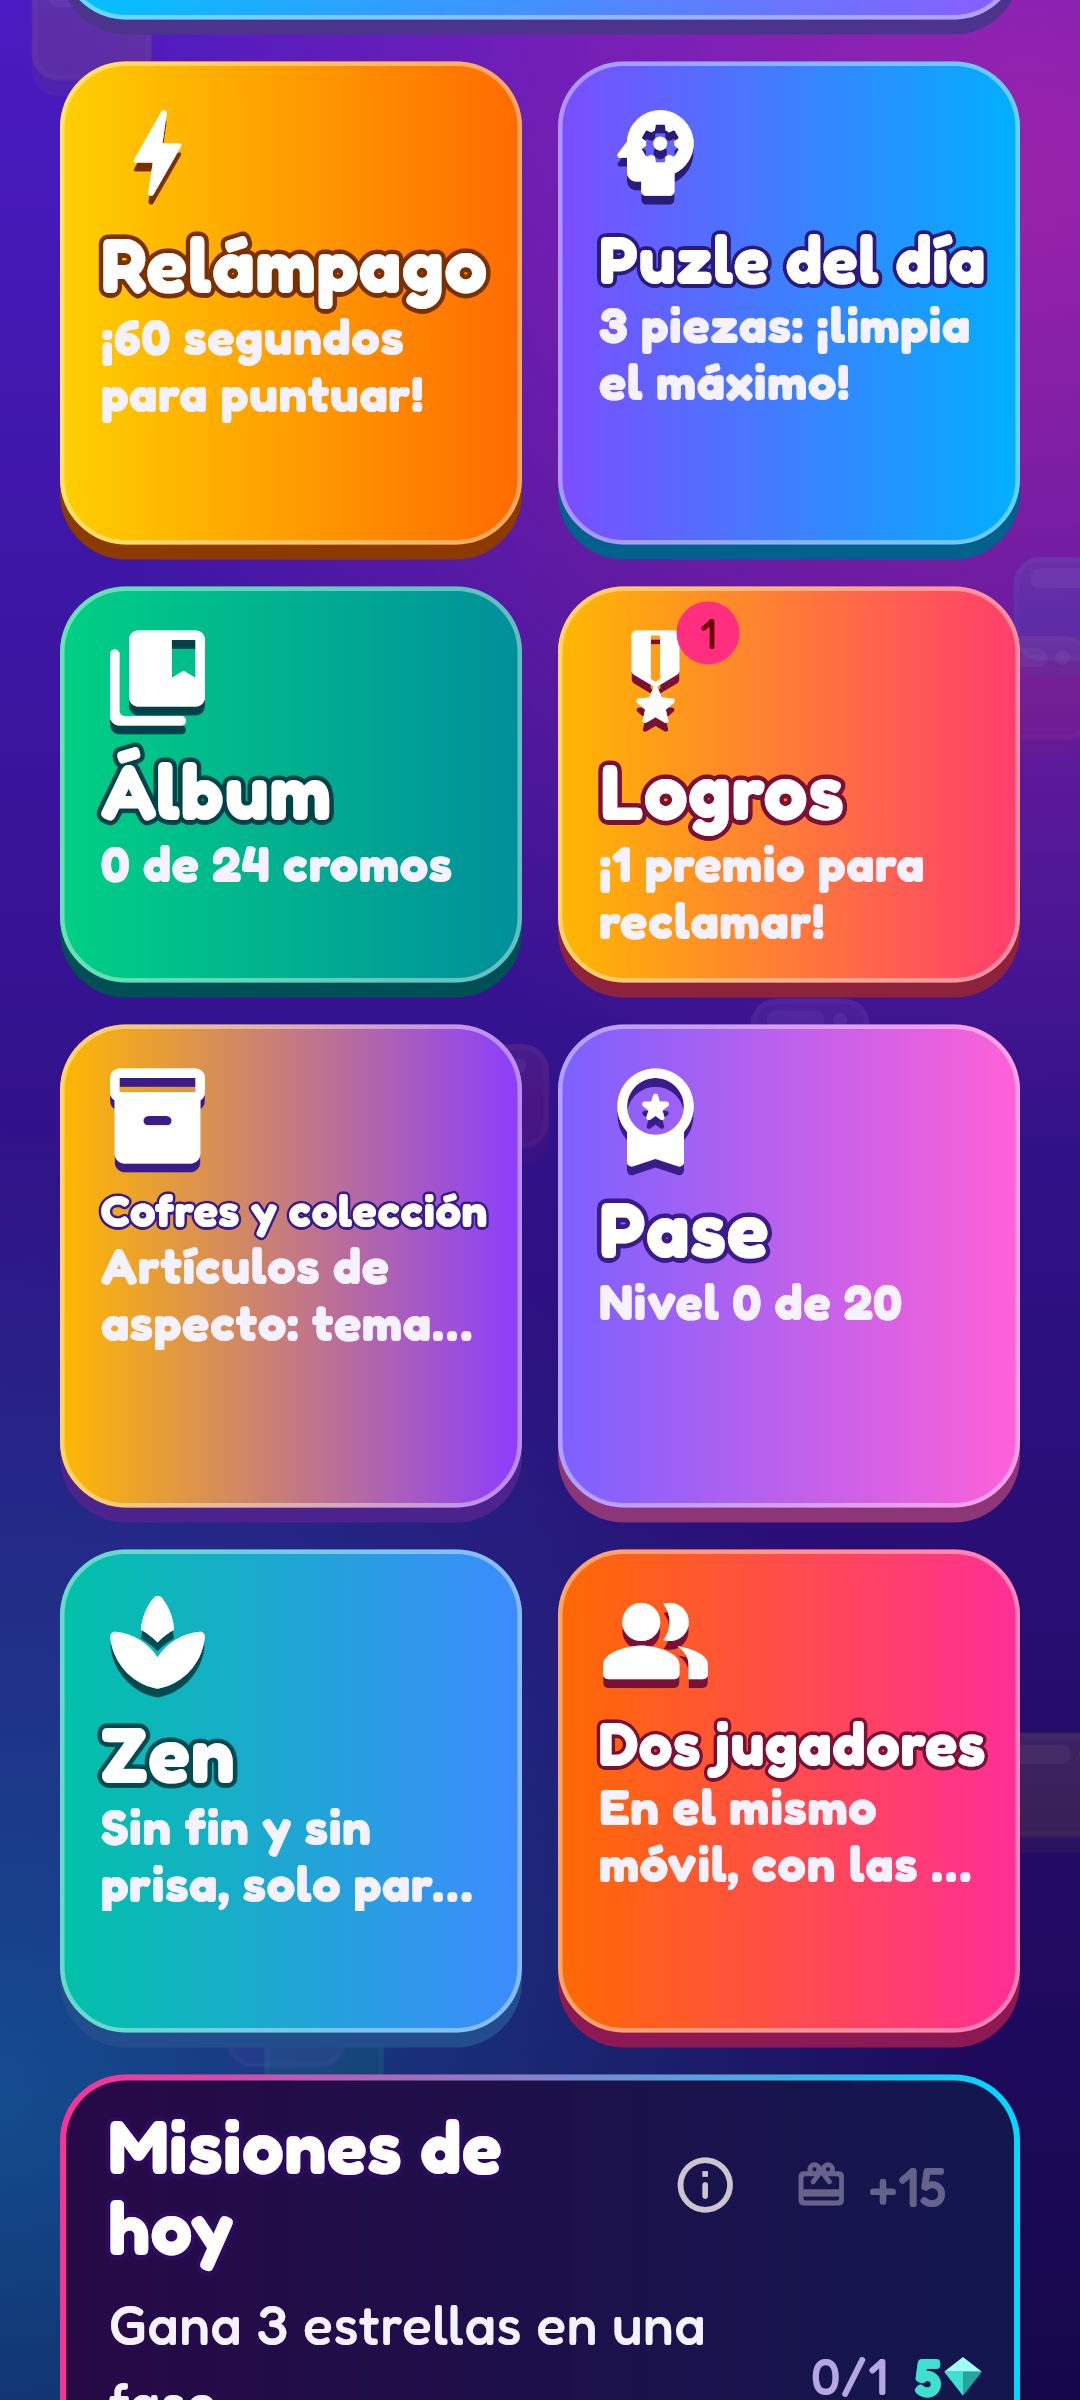
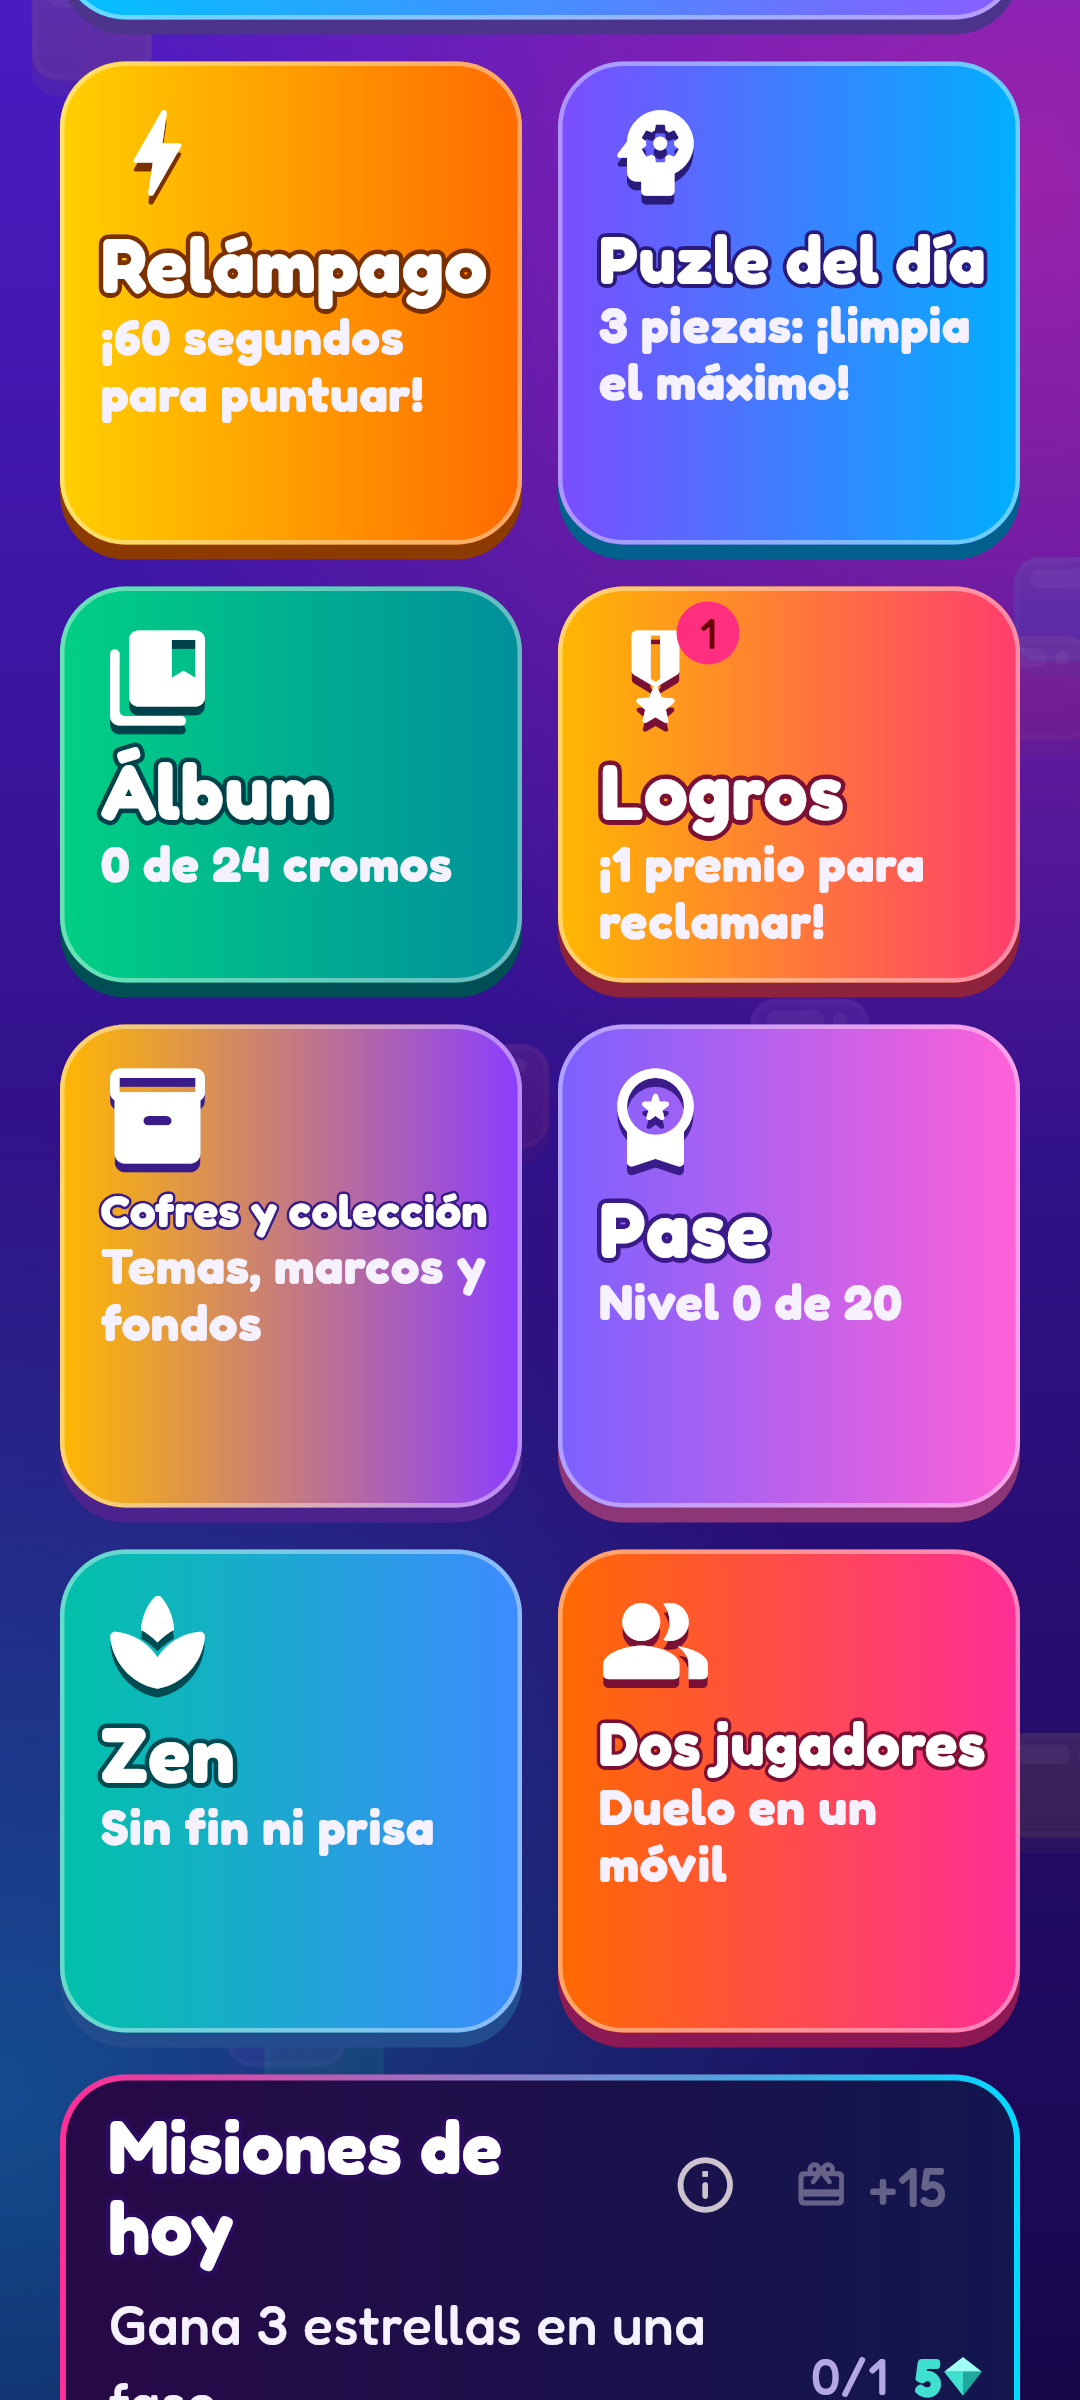
Prints da issue 25: Play Games na tela Salvar progresso, tela inicial, destaque en/es (v23)
- Capturas 60 a 63 (conectado, conectar, tela pequena com fonte 1,3x e tela inicial inteira)
- Capturas da tela inicial e do aviso de salvar geradas com o branch feat/esconder-salvar-progresso (sem o botão Salvar progresso)
- Imagem de destaque 1024x500 em inglês e espanhol
- Subtítulos dos tiles Zen, Dois jogadores e Baús encurtados (estavam cortados)

Claude-Session: https://claude.ai/code/session_0113qfSKSdakLn1Fz3YtvNms

Changed region(s): [[0.0917, 0.5, 0.4583, 0.5625], [0.0917, 0.75, 0.3972, 0.8125], [0.55, 0.75, 0.8556, 0.7812]]

diff --git a/app/lib/idioma_textos.dart b/app/lib/idioma_textos.dart
@@ -5,6 +5,9 @@ abstract final class Textos {
 }
 
 const _en = <String, String>{
+  'Sem fim, sem pressa': 'Endless and calm',
+  'Duelo no mesmo celular': 'Duel on one phone',
+  'Temas, molduras e fundos': 'Themes, frames and backgrounds',
   'Linhas limpas': 'Lines cleared',
   'JOGADOR {0}': 'PLAYER {0}',
   'pontos': 'points',
@@ -18,7 +21,6 @@ const _en = <String, String>{
   'Jogador 1: {0} · Jogador 2: {1}': 'Player 1: {0} · Player 2: {1}',
   'Revanche': 'Rematch',
   'Dois jogadores': 'Two players',
-  'No mesmo celular, com as mesmas peças': 'On the same phone, same pieces',
   'Um celular, dois jogadores: cada um joga uma partida, um depois do outro.':
       'One phone, two players: each plays one game, one after the other.',
   'As peças são as MESMAS para os dois, então ganha quem joga melhor.':
@@ -63,7 +65,6 @@ const _en = <String, String>{
   'Ouro e noite': 'Gold and night',
   'ZEN': 'ZEN',
   'Zen': 'Zen',
-  'Sem fim e sem pressa, só para relaxar': 'Endless and calm, just to relax',
   'Abrimos espaço!': 'Made some room!',
   'No Zen a partida não acaba': 'In Zen the game never ends',
   'Modo Zen': 'Zen mode',
@@ -124,7 +125,6 @@ const _en = <String, String>{
   'Garantia de raridade': 'Rarity guarantee',
   'Baú novo na coleção!': 'New chest in your collection!',
   '{0} baú{1} para abrir!': '{0} chest{1} to open!',
-  'Itens de aparência: temas, molduras e cores': 'Cosmetic items: themes, frames and colors',
   'Você ganhou um baú! Veja em Baús e coleção.': 'You got a chest! See it in Chests and collection.',
   'Você ganha baús jogando: Desafio do dia, níveis 5, 10, 15 e 20 do Passe, álbum completo e 14 e 30 dias de sequência.': 'You earn chests by playing: daily Challenge, Pass levels 5, 10, 15 and 20, a complete album, and 14 and 30-day streaks.',
   'Cada baú traz um item de APARÊNCIA: tema de blocos, moldura, cor do Quadrinho ou fundo do jogo. Nada muda a pontuação.': 'Each chest holds a COSMETIC item: a block theme, a board frame, a Quadrinho color or a game background. Nothing changes your score.',
@@ -763,6 +763,9 @@ const _en = <String, String>{
 };
 
 const _es = <String, String>{
+  'Sem fim, sem pressa': 'Sin fin ni prisa',
+  'Duelo no mesmo celular': 'Duelo en un móvil',
+  'Temas, molduras e fundos': 'Temas, marcos y fondos',
   'Linhas limpas': 'Líneas limpias',
   'JOGADOR {0}': 'JUGADOR {0}',
   'pontos': 'puntos',
@@ -776,7 +779,6 @@ const _es = <String, String>{
   'Jogador 1: {0} · Jogador 2: {1}': 'Jugador 1: {0} · Jugador 2: {1}',
   'Revanche': 'Revancha',
   'Dois jogadores': 'Dos jugadores',
-  'No mesmo celular, com as mesmas peças': 'En el mismo móvil, con las mismas piezas',
   'Um celular, dois jogadores: cada um joga uma partida, um depois do outro.':
       'Un móvil, dos jugadores: cada uno juega una partida, uno tras otro.',
   'As peças são as MESMAS para os dois, então ganha quem joga melhor.':
@@ -821,7 +823,6 @@ const _es = <String, String>{
   'Ouro e noite': 'Oro y noche',
   'ZEN': 'ZEN',
   'Zen': 'Zen',
-  'Sem fim e sem pressa, só para relaxar': 'Sin fin y sin prisa, solo para relajarte',
   'Abrimos espaço!': '¡Hicimos espacio!',
   'No Zen a partida não acaba': 'En Zen la partida nunca termina',
   'Modo Zen': 'Modo Zen',
@@ -882,7 +883,6 @@ const _es = <String, String>{
   'Garantia de raridade': 'Garantía de rareza',
   'Baú novo na coleção!': '¡Cofre nuevo en tu colección!',
   '{0} baú{1} para abrir!': '¡{0} cofre{1} para abrir!',
-  'Itens de aparência: temas, molduras e cores': 'Artículos de aspecto: temas, marcos y colores',
   'Você ganhou um baú! Veja em Baús e coleção.': '¡Ganaste un cofre! Míralo en Cofres y colección.',
   'Você ganha baús jogando: Desafio do dia, níveis 5, 10, 15 e 20 do Passe, álbum completo e 14 e 30 dias de sequência.': 'Ganas cofres jugando: Desafío del día, niveles 5, 10, 15 y 20 del Pase, álbum completo y rachas de 14 y 30 días.',
   'Cada baú traz um item de APARÊNCIA: tema de blocos, moldura, cor do Quadrinho ou fundo do jogo. Nada muda a pontuação.': 'Cada cofre trae un artículo de ASPECTO: tema de bloques, marco del tablero, color de Quadrinho o fondo del juego. Nada cambia la puntuación.',

diff --git a/app/test/play_games_tela_test.dart b/app/test/play_games_tela_test.dart
@@ -1,0 +1,94 @@
+import 'dart:typed_data';
+
+import 'package:encaixa/servicos/copia_automatica.dart';
+import 'package:encaixa/telas/inicio_tela.dart';
+import 'package:encaixa/telas/progresso_tela.dart';
+import 'package:flutter_test/flutter_test.dart';
+import 'package:material_ui/material_ui.dart';
+
+import 'suporte/capturas.dart';
+
+/// Play Games de mentira: [logado] é o nome da conta conectada (`null` = ainda sem conta).
+class _PlayGamesFalso implements CopiaAutomatica, ContaDoJogador {
+  _PlayGamesFalso({this.logado});
+
+  String? logado;
+  Uint8List? guardado;
+
+  @override
+  Future<ResultadoCopia> salvar(Uint8List bytes) async {
+    guardado = bytes;
+    return const ResultadoCopia(ok: true, nuvem: true);
+  }
+
+  @override
+  Future<Uint8List?> ler() async => guardado;
+
+  @override
+  Future<String?> nome() async => logado;
+
+  @override
+  Future<bool> conectar() async {
+    logado = 'Agster';
+    return true;
+  }
+}
+
+const _jogador = <String, Object>{'faseLiberada': 9, 'partidas': 12, 'recorde': 4200, 'gemas': 60};
+
+/// Capturas da tela Salvar progresso com e sem a conta do Play Games.
+/// Gere com: flutter test test/play_games_tela_test.dart --dart-define=CAPTURAS=true
+void main() {
+  setUpAll(carregarFontes);
+
+  Future<void> abrir(WidgetTester tester, {String? conta}) async {
+    final s = await servicosDeTeste(
+      valores: _jogador,
+      copia: _PlayGamesFalso(logado: conta),
+    );
+    await tester.pumpWidget(appDeTeste(s, tela: ProgressoTela(servicos: s)));
+    await tester.pump();
+    await tester.pump(const Duration(milliseconds: 200));
+  }
+
+  testWidgets('conectado: mostra a conta do Play Games', (tester) async {
+    telaDeCelular(tester);
+    await abrir(tester, conta: 'Agster');
+    expect(find.text('Conectado ao Play Games'), findsOneWidget);
+    expect(find.textContaining('Conta: Agster'), findsOneWidget);
+    await capturar(tester, '60-play-games-conectado');
+  });
+
+  testWidgets('sem conta: pede para conectar e o botão conecta', (tester) async {
+    telaDeCelular(tester);
+    await abrir(tester);
+    expect(find.text('Conecte ao Play Games'), findsOneWidget);
+    expect(find.text('CONECTAR AO PLAY GAMES'), findsWidgets);
+    await capturar(tester, '61-play-games-conectar');
+    await tester.tap(find.text('CONECTAR AO PLAY GAMES').first);
+    await tester.pump();
+    await tester.pump(const Duration(milliseconds: 200));
+    expect(find.text('Conectado ao Play Games'), findsOneWidget);
+  });
+
+  for (final (nome, conta) in [('conectado', 'Agster'), ('sem conta', null)]) {
+    testWidgets('tela pequena (320x600) com fonte 1,3x: nada estoura ($nome)', (tester) async {
+      telaDeCelular(tester, tamanho: const Size(320, 600), fonte: 1.3);
+      await abrir(tester, conta: conta);
+      expect(tester.takeException(), isNull);
+      await capturar(tester, '62-play-games-${conta == null ? 'conectar' : 'conectado'}-pequena');
+    });
+  }
+
+  testWidgets('fim da tela inicial (tela alta, para ver tudo até o fim)', (tester) async {
+    telaDeCelular(tester, tamanho: const Size(360, 1900));
+    final s = await servicosDeTeste(
+      valores: _jogador,
+      copia: _PlayGamesFalso(logado: 'Agster'),
+    );
+    await tester.pumpWidget(appDeTeste(s, tela: InicioTela(servicos: s)));
+    await tester.pumpAndSettle();
+    expect(tester.takeException(), isNull);
+    await capturar(tester, '63-inicio-fim');
+  });
+}

diff --git a/app/test/artes_test.dart b/app/test/artes_test.dart
@@ -11,7 +11,13 @@ import 'suporte/capturas.dart';
 void main() {
   setUpAll(carregarFontes);
 
-  Future<void> desenhar(WidgetTester tester, Size tamanho, Widget arte, String nome) async {
+  Future<void> desenhar(
+    WidgetTester tester,
+    Size tamanho,
+    Widget arte,
+    String nome, {
+    String pasta = '../docs/artes',
+  }) async {
     tester.view
       ..devicePixelRatio = 1
       ..physicalSize = tamanho;
@@ -23,7 +29,7 @@ void main() {
       ),
     );
     await tester.pump();
-    await capturar(tester, nome, pasta: '../docs/artes');
+    await capturar(tester, nome, pasta: pasta);
   }
 
   // Arte do mascote Quadrinho, desenhada em código: uma folha com todos os humores e um PNG de cada.
@@ -89,35 +95,43 @@ void main() {
     );
   });
 
-  testWidgets('imagem de destaque 1024x500', (tester) async {
-    await desenhar(
-      tester,
-      const Size(1024, 500),
-      const DecoratedBox(
-        decoration: BoxDecoration(gradient: Cores.fundo),
-        child: Stack(
-          children: [
-            Positioned.fill(child: CustomPaint(painter: _Pilha())),
-            Align(
-              alignment: Alignment(-0.75, 0),
-              child: Column(
-                mainAxisSize: MainAxisSize.min,
-                children: [
-                  Logo(tamanho: 96),
-                  SizedBox(height: 12),
-                  Text(
-                    'Encaixe. Limpe. Combine as cores.',
-                    style: TextStyle(fontSize: 30, color: Cores.texto, fontWeight: FontWeight.w500),
-                  ),
-                ],
+  // Imagem de destaque da loja, uma por idioma (o texto é o único que muda).
+  for (final (slogan, nome, pasta) in [
+    ('Encaixe. Limpe. Combine as cores.', 'destaque-1024x500', '../docs/artes'),
+    ('Fit. Clear. Match the colors.', 'destaque-en-1024x500', '../docs/play-store/en'),
+    ('Encaja. Limpia. Combina los colores.', 'destaque-es-1024x500', '../docs/play-store/es'),
+  ]) {
+    testWidgets('imagem de destaque 1024x500 ($nome)', (tester) async {
+      await desenhar(
+        tester,
+        const Size(1024, 500),
+        DecoratedBox(
+          decoration: const BoxDecoration(gradient: Cores.fundo),
+          child: Stack(
+            children: [
+              const Positioned.fill(child: CustomPaint(painter: _Pilha())),
+              Align(
+                alignment: const Alignment(-0.75, 0),
+                child: Column(
+                  mainAxisSize: MainAxisSize.min,
+                  children: [
+                    const Logo(tamanho: 96),
+                    const SizedBox(height: 12),
+                    Text(
+                      slogan,
+                      style: const TextStyle(fontSize: 30, color: Cores.texto, fontWeight: FontWeight.w500),
+                    ),
+                  ],
+                ),
               ),
-            ),
-          ],
+            ],
+          ),
         ),
-      ),
-      'destaque-1024x500',
-    );
-  });
+        nome,
+        pasta: pasta,
+      );
+    });
+  }
 }
 
 /// Peça em "T" centralizada, com margem para o recorte redondo do Android.

diff --git a/app/lib/telas/inicio_tela.dart b/app/lib/telas/inicio_tela.dart
@@ -337,7 +337,7 @@ class _InicioTelaState extends State<InicioTela> {
                                   titulo: t('Baús e coleção'),
                                   subtitulo: p.baus > 0
                                       ? t('{0} baú{1} para abrir!', [p.baus, p.baus == 1 ? '' : 's'])
-                                      : t('Itens de aparência: temas, molduras e cores'),
+                                      : t('Temas, molduras e fundos'),
                                   cores: const [Color(0xFFFFB800), Color(0xFF8B3DFF)],
                                   contorno: const Color(0xFF3A1B8A),
                                   selo: p.baus,
@@ -373,7 +373,7 @@ class _InicioTelaState extends State<InicioTela> {
                                 child: _Atalho(
                                   icone: Icons.spa_rounded,
                                   titulo: t('Zen'),
-                                  subtitulo: t('Sem fim e sem pressa, só para relaxar'),
+                                  subtitulo: t('Sem fim, sem pressa'),
                                   cores: const [Color(0xFF00C2A8), Color(0xFF3D8BFF)],
                                   contorno: const Color(0xFF004A52),
                                   aoTocar: () => _abrir(JogoTela(servicos: servicos, zen: true)),
@@ -384,7 +384,7 @@ class _InicioTelaState extends State<InicioTela> {
                                 child: _Atalho(
                                   icone: Icons.people_alt_rounded,
                                   titulo: t('Dois jogadores'),
-                                  subtitulo: t('No mesmo celular, com as mesmas peças'),
+                                  subtitulo: t('Duelo no mesmo celular'),
                                   cores: const [Color(0xFFFF6A00), Color(0xFFFF2E97)],
                                   contorno: const Color(0xFF7A1033),
                                   aoTocar: () => _abrir(JogoTela(servicos: servicos, duelo: Duelo.novo())),

diff --git a/docs/TELAS.md b/docs/TELAS.md
@@ -28,3 +28,12 @@ O ícone adaptativo (Android 8+) usa essa frente sobre o degradê de `res/drawab
 Efeitos sintetizados por `ferramentas/gerar_sons.py` (sem licença de terceiros): `python3 ferramentas/gerar_sons.py`.
 Arquivos: `encaixe`, `linha`, `combo`, `incrivel`, `fantastico` e `fim`. Todo valor de `Som` precisa de um `.wav` com o mesmo
 nome (um teste confere).
+
+## Capturas novas (issue #25)
+- `docs/telas/60-play-games-conectado.png` e `61-play-games-conectar.png`: tela *Salvar progresso* com e sem a conta do Play Games
+  (`62-*-pequena.png`: 320x600 com fonte 1,3x). Gerar: `flutter test test/play_games_tela_test.dart --dart-define=CAPTURAS=true`.
+- `63-inicio-fim.png`: a tela inicial inteira (360x1900). `1-inicio.png`, `29-aviso-salvar.png` e `idioma-*-inicio-2.png` foram
+  geradas com o branch `feat/esconder-salvar-progresso` (sem o botão *Salvar progresso*); se esse branch ainda não estiver na
+  `main`, regere depois do merge.
+- Imagem de destaque por idioma: `docs/artes/destaque-1024x500.png` (pt), `docs/play-store/en/destaque-en-1024x500.png` e
+  `docs/play-store/es/destaque-es-1024x500.png` (`test/artes_test.dart`).
